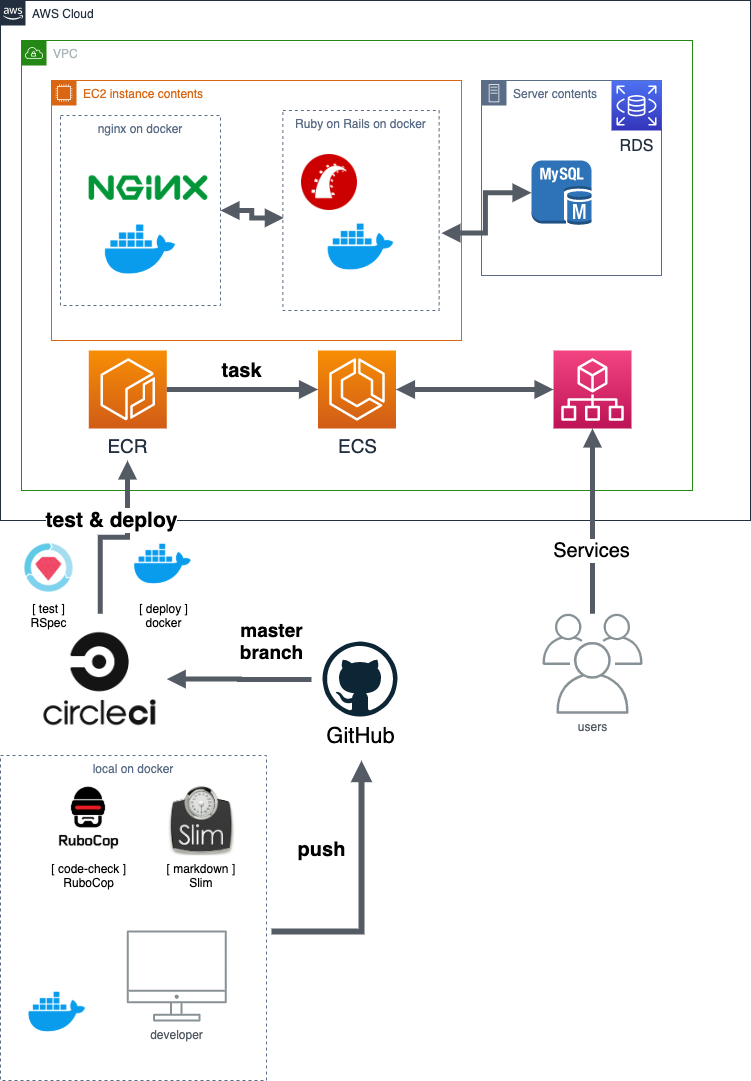
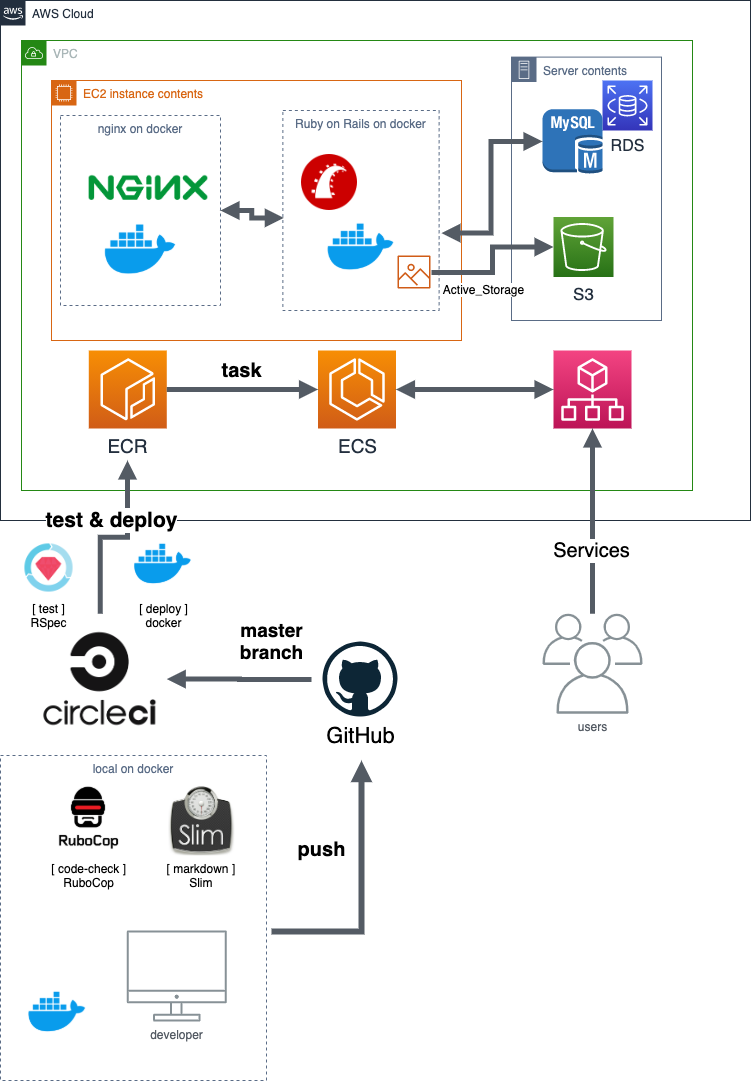
トップ修正

Changed region(s): [[0.5206, 0.0305, 0.8881, 0.2747]]

diff --git a/app/assets/stylesheets/home.scss b/app/assets/stylesheets/home.scss
@@ -26,8 +26,16 @@ $jimo-bg: rgba(0, 0, 0, 0.7);
 
 .info-wrapper {
     padding: 1em;
-    height: 120vh;
+    height: 100vh;
     overflow: scroll;
     background-position: center;
     background-image: image-url("jimo_form_bg.png");
+}
+
+.info-second-wrapper {
+    padding: 1em;
+    height: 100vh;
+    overflow: scroll;
+    background-position: center;
+    background-image: image-url("item-bg-2.png");
 }

diff --git a/README.md b/README.md
@@ -29,7 +29,7 @@ jimoshare(ジモシェア)は、「フードロスも地産地消」をキャッ
 - ヴァージョン管理：GitHub
 - CI/CD パイプライン：CircleCI
 - 開発環境：local on Docker
-- デプロイ環境：AWS(EC2 / ECR / ECS / RDS)
+- デプロイ環境：AWS(EC2 / ECR / ECS / RDS / S3)
 - ユーザー管理：devise
 - 検索絞込み機能：ransak
 - 画像投稿： Active_Storage
